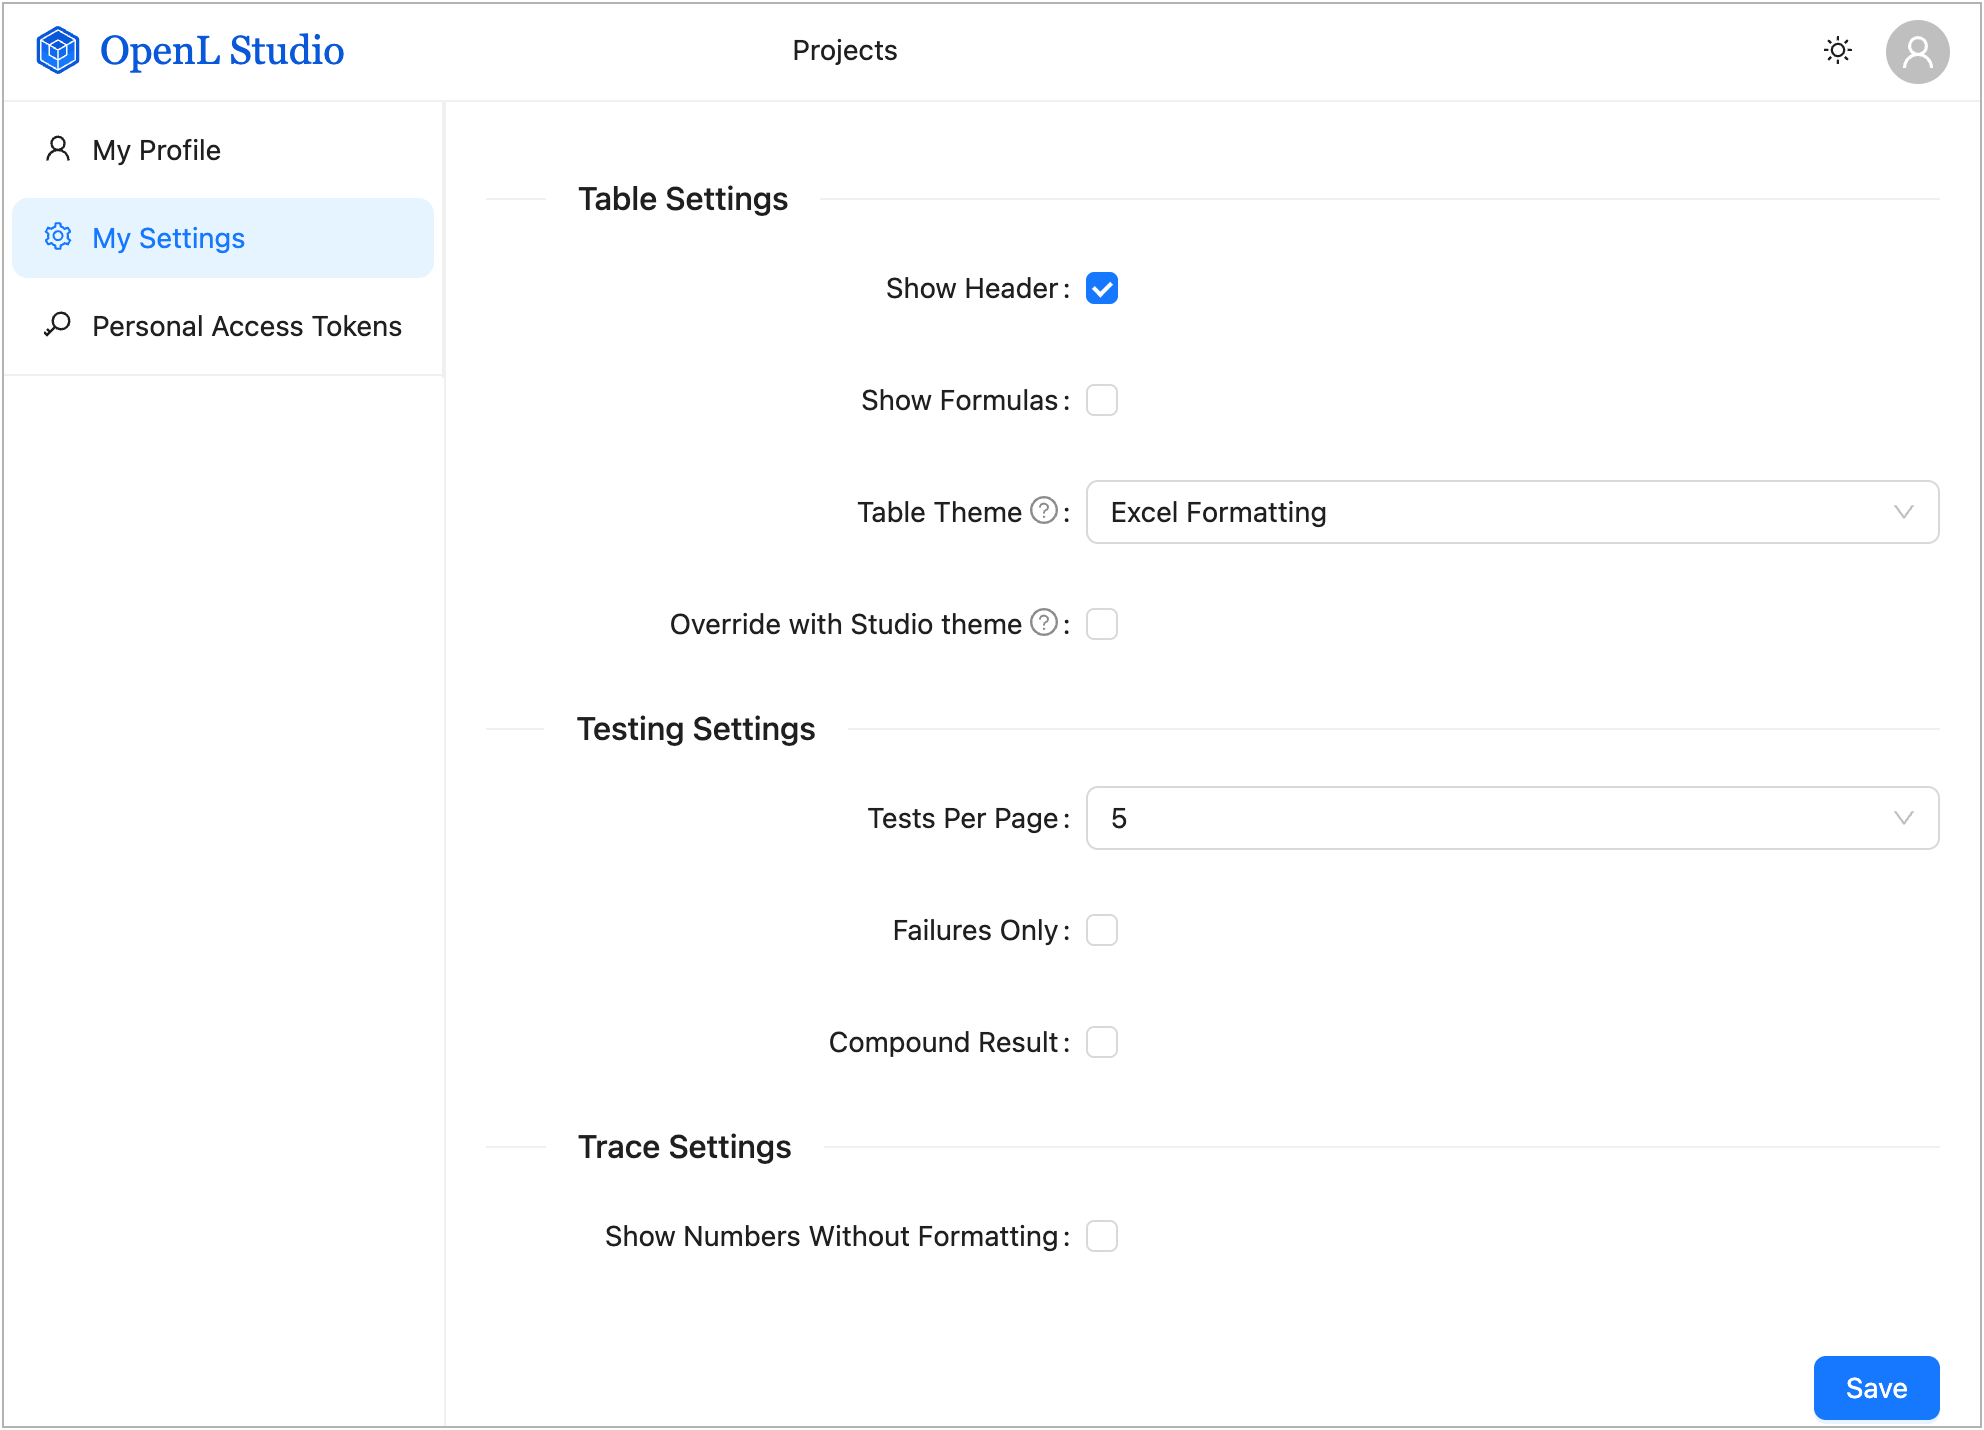
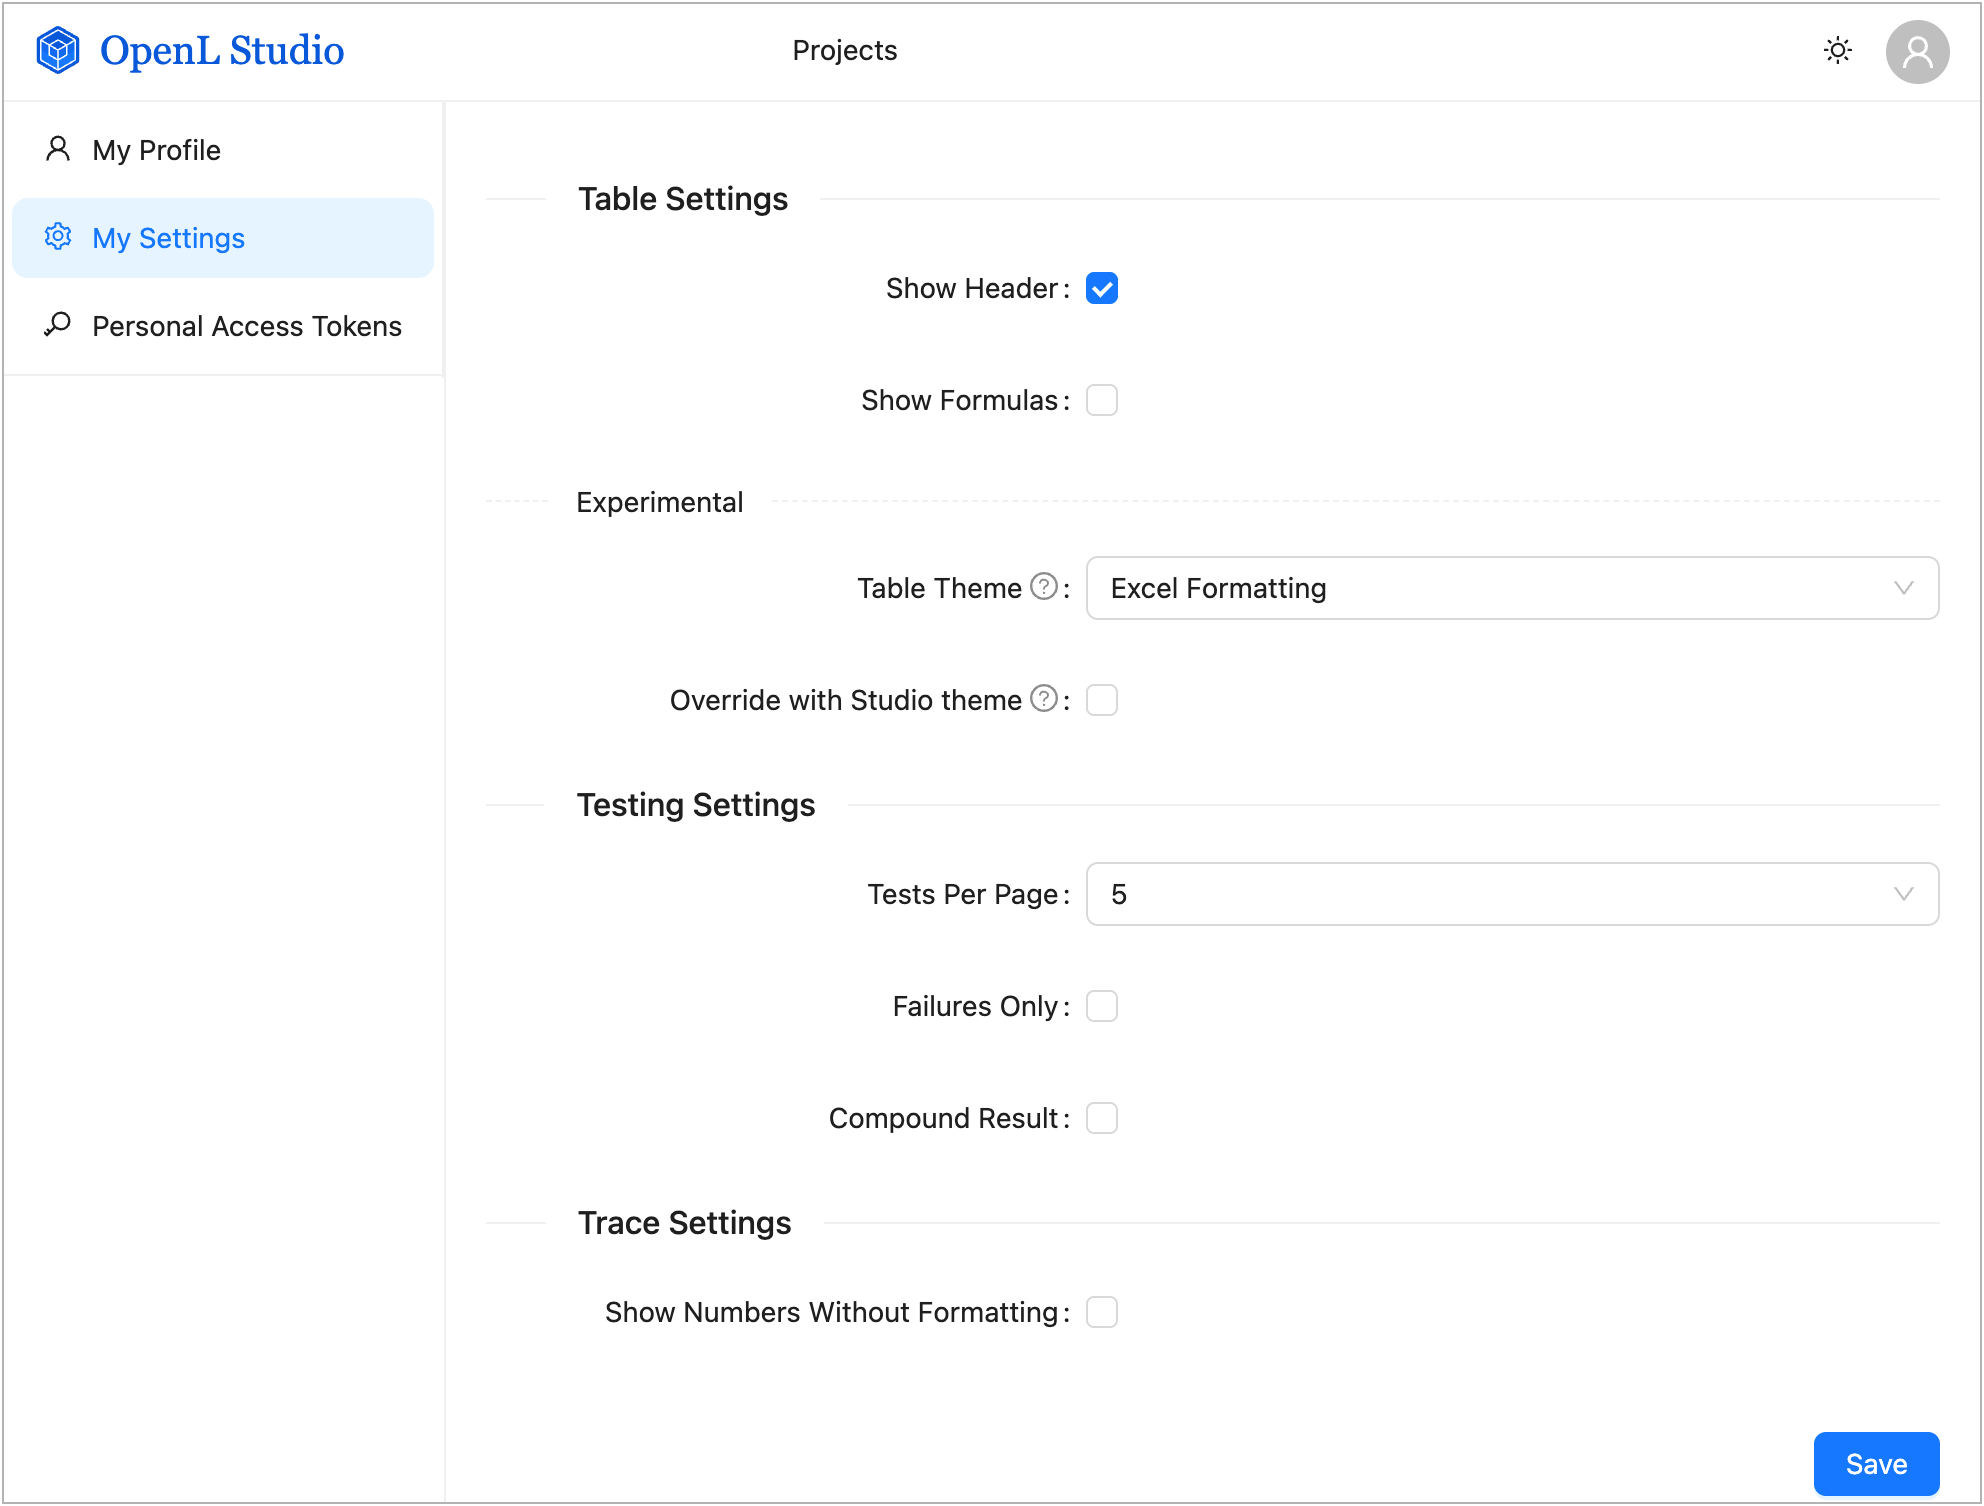
EPBDS-7164 Mark the table theme settings as experimental in My Settings

diff --git a/STUDIO/studio-ui/src/containers/UserSettings.test.tsx b/STUDIO/studio-ui/src/containers/UserSettings.test.tsx
@@ -197,6 +197,21 @@ describe('UserSettings', () => {
         expect(screen.getByLabelText('users:settings.override_with_studio_theme')).toBeChecked()
     })
 
+    it('sets the table theme and its override apart as experimental settings', async () => {
+        renderSettings()
+
+        const experimental = await screen.findByText('users:settings.experimental')
+        const testing = screen.getByText('users:settings.testing_settings')
+        for (const label of ['users:settings.table_theme', 'users:settings.override_with_studio_theme']) {
+            const field = screen.getByLabelText(label)
+            expect(experimental.compareDocumentPosition(field) & Node.DOCUMENT_POSITION_FOLLOWING).toBeTruthy()
+            expect(field.compareDocumentPosition(testing) & Node.DOCUMENT_POSITION_FOLLOWING).toBeTruthy()
+        }
+        // The other table settings stay above the experimental ones.
+        const formulas = screen.getByLabelText('users:settings.show_formulas')
+        expect(formulas.compareDocumentPosition(experimental) & Node.DOCUMENT_POSITION_FOLLOWING).toBeTruthy()
+    })
+
     it('tells that the table theme and its override change only what the screen shows', async () => {
         renderSettings()
 

diff --git a/STUDIO/studio-ui/src/containers/UserSettings.tsx b/STUDIO/studio-ui/src/containers/UserSettings.tsx
@@ -97,6 +97,8 @@ export const UserSettings: React.FC = () => {
             <Divider titlePlacement="start">{t('users:settings.table_settings')}</Divider>
             <Checkbox label={t('users:settings.show_header')} name="showHeader" />
             <Checkbox label={t('users:settings.show_formulas')} name="showFormulas" />
+            {/* The table themes are experimental, so their settings stand apart under a heading of their own. */}
+            <Divider dashed plain titlePlacement="start">{t('users:settings.experimental')}</Divider>
             <Select
                 label={t('users:settings.table_theme')}
                 name="tableTheme"

diff --git a/STUDIO/studio-ui/src/locales/users.en.ts b/STUDIO/studio-ui/src/locales/users.en.ts
@@ -54,6 +54,7 @@ i18next.addResourceBundle('en', 'users', {
         table_settings: 'Table Settings',
         show_header: 'Show Header',
         show_formulas: 'Show Formulas',
+        experimental: 'Experimental',
         table_theme: 'Table Theme',
         table_theme_info: 'View only: changes how the tables are shown on the screen. The Excel files and the '
             + 'projects are not changed.',

diff --git a/Docs/user-guides/openl-studio/getting-started.md b/Docs/user-guides/openl-studio/getting-started.md
@@ -127,7 +127,7 @@ To manage personal settings, proceed as follows:
 1.  In OpenL Studio, in the top-right corner, click the user icon.
 2.  In the panel, click **My Settings**.
 
-    ![My Settings page with the Table Settings, Testing Settings and Trace Settings sections](images/user-settings-form.png "My Settings page")
+    ![My Settings page with the Table Settings section and its experimental settings, and the Testing Settings and Trace Settings sections](images/user-settings-form.png "My Settings page")
 
     *My Settings page*
 
@@ -135,17 +135,18 @@ To manage personal settings, proceed as follows:
 
     -   **Show Header** — display the table header row.
     -   **Show Formulas** — display MS Excel formulas in table cells.
-    -   **Table Theme** — how the tables are drawn while they are viewed: every table but a table of the type
-        **Other**. The default, **Excel Formatting**, draws them with the formatting of the Excel file. A table theme
-        draws them with the theme. A table being edited is drawn as the file holds it. For more information on themes,
-        see [Appendix E: Table Themes](appendices/table-themes.md).
-    -   **Override with Studio theme** — draw the tables in the look of the OpenL Studio theme in place of the table
-        theme, so that in the dark appearance they are dark too. The **Standard** theme of OpenL Studio draws them
-        with the **Standard** table theme, in its own colours in the light appearance and in dark colours in the dark
-        one: the table theme decides which text is bold, which lines are drawn and how the text is aligned, and the
-        text takes the font of OpenL Studio. The other themes of OpenL Studio have no look for the tables, so under
-        them the tables are drawn as **Table Theme** selects. Like the theme of OpenL Studio, the choice is remembered
-        by the browser rather than in the user profile.
+    -   **Experimental** — the settings of the table themes, an experimental feature:
+        -   **Table Theme** — how the tables are drawn while they are viewed: every table but a table of the type
+            **Other**. The default, **Excel Formatting**, draws them with the formatting of the Excel file. A table
+            theme draws them with the theme. A table being edited is drawn as the file holds it. For more information
+            on themes, see [Appendix E: Table Themes](appendices/table-themes.md).
+        -   **Override with Studio theme** — draw the tables in the look of the OpenL Studio theme in place of the
+            table theme, so that in the dark appearance they are dark too. The **Standard** theme of OpenL Studio
+            draws them with the **Standard** table theme, in its own colours in the light appearance and in dark
+            colours in the dark one: the table theme decides which text is bold, which lines are drawn and how the
+            text is aligned, and the text takes the font of OpenL Studio. The other themes of OpenL Studio have no
+            look for the tables, so under them the tables are drawn as **Table Theme** selects. Like the theme of
+            OpenL Studio, the choice is remembered by the browser rather than in the user profile.
 
     > [!Note]
     > **Table Theme** and **Override with Studio theme** are view only: they change how the tables are shown on the

diff --git a/Docs/user-guides/openl-studio/rules-editor.md b/Docs/user-guides/openl-studio/rules-editor.md
@@ -401,8 +401,9 @@ theme that OpenL Studio ships follows the formatting standard of OpenL tables an
 OpenL Studio also ships the **Green** theme. How a theme file is written is described in
 [Appendix E: Table Themes](appendices/table-themes.md). A theme can be used in the following ways:
 
--   **Viewed only** — in **My Settings**, in the **Table Theme** list, select the theme. Every table but a table of
-    the type **Other** is then drawn with the theme while it is viewed, and the Excel file keeps its own formatting.
+-   **Viewed only** — in **My Settings**, under **Experimental**, in the **Table Theme** list, select the theme. Every
+    table but a table of the type **Other** is then drawn with the theme while it is viewed, and the Excel file keeps
+    its own formatting.
     A table switched to the edit mode is drawn as the file holds it, so the formatting changed in the edit mode is
     the formatting of the file. To draw the tables with the formatting of the file again, select **Excel
     Formatting**. To draw them in the look of the OpenL Studio theme, dark in the dark appearance, select **Override
